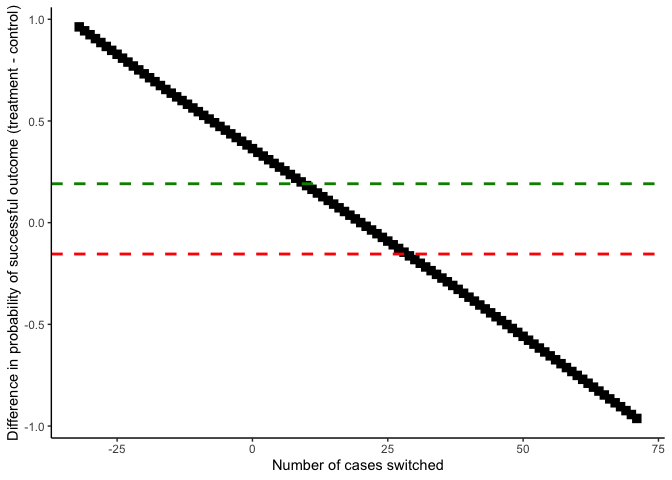
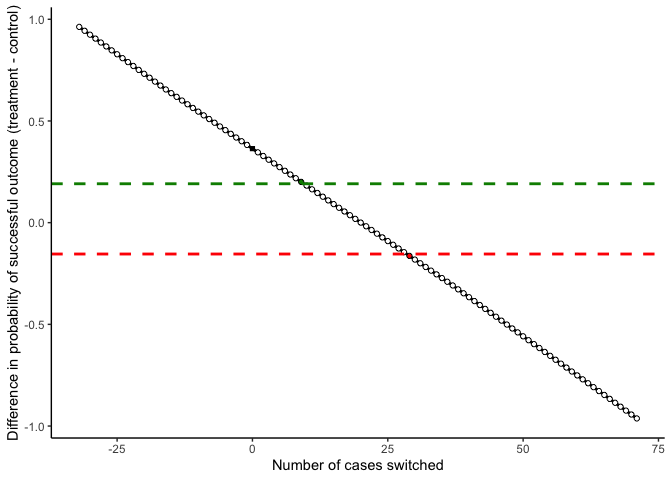
update

Changed region(s): [[0.0938, 0.0312, 0.9688, 0.9062]]

diff --git a/README.md b/README.md
@@ -158,8 +158,7 @@ mkonfound(d, t, df)
 
 # Features in-development
 
-There is an in-development non-linear
-option:
+There is an in-development non-linear option:
 
 ``` r
 nl_output <- pkonfound(-0.2, 0.103, 20888, 3, n_trm = 17888, non_linear = TRUE)
@@ -211,6 +210,9 @@ tkonfound_fig(35, 17, 17, 38)
 
     #> 
     #> [[2]]
+    #> [1] "A bend in line indicates switches from the control row because the treatment row was exhausted."
+    #> 
+    #> [[3]]
     #> Warning: Removed 27 rows containing missing values (geom_label_repel).
 
 ![](README-unnamed-chunk-10-2.png)<!-- -->
@@ -241,4 +243,5 @@ file).
 ### Code of Conduct
 
 Please note that this project is released with a Contributor Code of
-Conduct available at <http://contributor-covenant.org/version/1/0/0/>
+Conduct available at
+<https://www.contributor-covenant.org/version/1/0/0/>

diff --git a/cran-comments.md b/cran-comments.md
@@ -2,6 +2,7 @@
 
 * This package was removed from CRAN due to an issue with a dependency; we have 
 addressed the issue
+* I have addressed an issue with the CRAN submission (invalid URL)
 
 ## Test environments
 * local OS X install, R 3.4.4
